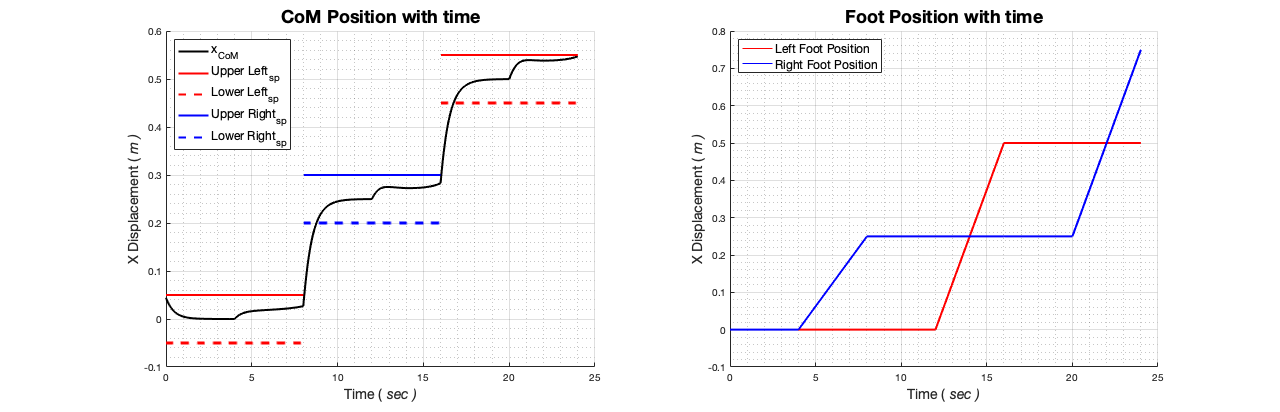
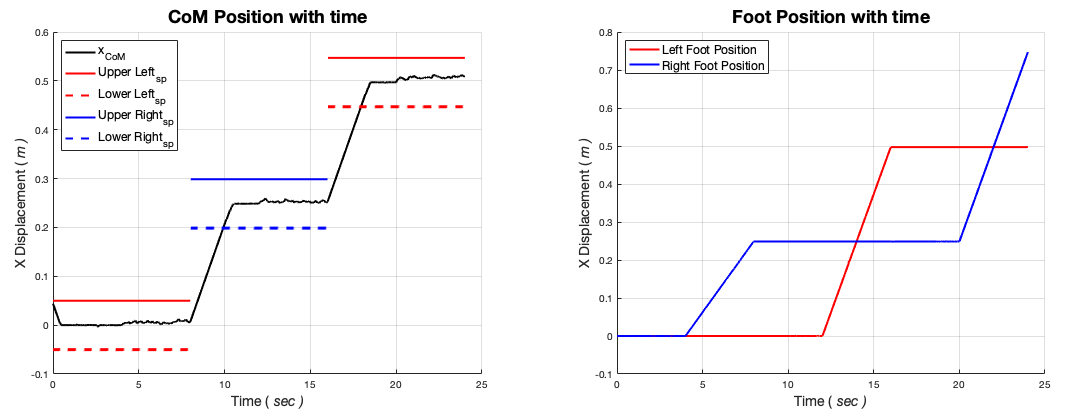
Update Content.
Switch to nonlinear constraint governing CoM velocity

diff --git a/MatLab/2D-QuasiStatic/k_Inv.m b/MatLab/2D-QuasiStatic/k_Inv.m
@@ -5,10 +5,9 @@ function [qStar] = k_Inv(q0, xe, i, m, p)
 %              qStar:   necessary joint variables
 %
 % SOLUTION: qˣ = ARG MIN (q): qᵀ W q + (k(q) - xeˣ)ᵀ K (k(q) - xeˣ)
-    Kxe = 1e3*eye(length(xe),length(xe));
+    Kxe = 1e4*eye(length(xe),length(xe));
     Kq  = 1*eye(length(q0),length(q0));
-    Km  = 6*eye(length(xe(1:3)),length(xe(1:3)));
-    Kmv = 1e2*eye(length(xe(1:3)),length(xe(1:3)));
+    Km  = 1e3*eye(length(xe(1:3)),length(xe(1:3)));
     kN  = i - 1;
 
     A       = [];
@@ -17,7 +16,6 @@ function [qStar] = k_Inv(q0, xe, i, m, p)
     beq     = [];
     lb      = [-pi/2; pi/720; -pi/2; -pi/2; -pi/2;   -pi/2];
     ub      = [ pi/2;   pi/2;  pi/2;  pi/2; -pi/720;  pi/2];
-    nonlcon = [];
     options = optimoptions('fmincon', ...
         'Display','notify',...
         'MaxFunctionEvaluations',1e5,...
@@ -32,11 +30,11 @@ function [qStar] = k_Inv(q0, xe, i, m, p)
     end
 
     R0A(2) = m.rCoMb(2,kN);
+    R0A(3) = m.rCoMb(3,kN);
 
     argmin = @(q) (q0 - q)'*Kq *(q0 - q) + ...
         (k(q,kN,m,p) - xe)'*Kxe*(k(q,kN,m,p) - xe) + ...
-    (rCoM(q,kN,m,p) - R0A)'*Km *(rCoM(q,kN,m,p) - R0A) + ...
-    (rCoM(q,kN,m,p) - m.rCoMb(:,kN))'*Kmv *(rCoM(q,kN,m,p) - m.rCoMb(:,kN));
+    (rCoM(q,kN,m,p) - R0A)'*Km *(rCoM(q,kN,m,p) - R0A);
 
-    qStar = fmincon(argmin,q0,A,b,Aeq,beq,lb,ub,nonlcon,options);
+    qStar = fmincon(argmin,q0,A,b,Aeq,beq,lb,ub,@(q)vCoM(q,kN,m,p),options);
 end

diff --git a/MatLab/2D-QuasiStatic/main.m b/MatLab/2D-QuasiStatic/main.m
@@ -4,6 +4,7 @@ clc
 
 %% Setup
 params.framerate    = 40;
+params.timestep     = 1 / params.framerate;
 model.tspan         = 0:(1 / params.framerate):24;
 
 model.q             = zeros(6,length(model.tspan)); % q     [θ₁θ₂θ₃θ₄θ₅θ₆]ᵀ
@@ -188,7 +189,7 @@ for i=1:length(model.tspan)
     grid on
     grid("minor");
     axis equal
-    view(90,0);
+    view(135,30);
     ylabel('{\bfX} (metres)');
     zlabel('{\bfY} (metres)');
     set(gca,'Color','#DDDDDD');

diff --git a/MatLab/2D-QuasiStatic/vCoM.m b/MatLab/2D-QuasiStatic/vCoM.m
@@ -1,0 +1,8 @@
+function [c, ceq] = vCoM(q, kN, m, p)
+%VCOM Summary of this function goes here
+%   Detailed explanation goes here
+    dt  = p.timestep;
+    c   = abs((rCoM(q,kN,m,p) - m.rCoMb(:,kN))./dt) - [0.1; 0.1; 0.01];
+    ceq = [];
+end
+
